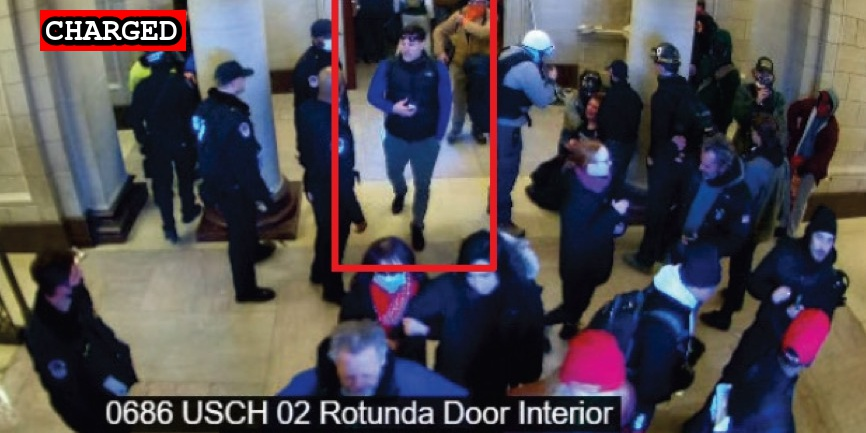
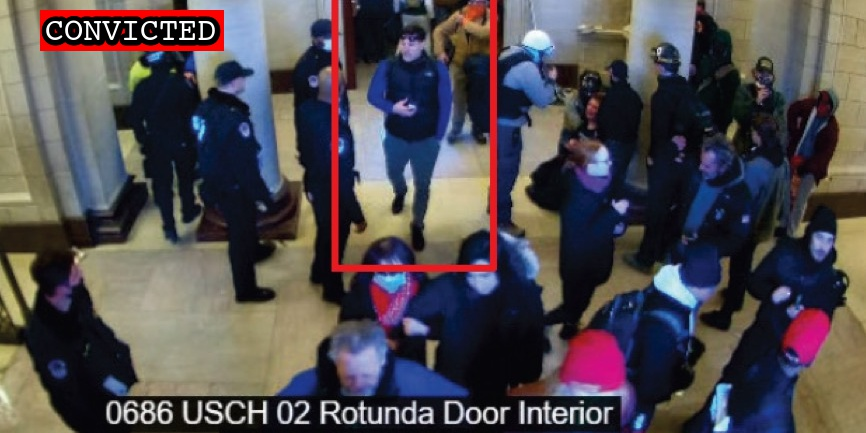
Latest pleas and sentencing

Changed region(s): [[0.0312, 0.0, 0.2806, 0.1201]]

diff --git a/docs/_suspects/jason-riddle.md b/docs/_suspects/jason-riddle.md
@@ -34,19 +34,19 @@ published: true
 caseNumber: 1:21-cr-304
 videos:
 charges:
-  - code: 18 USC § 5104(e)(2)(G)
-    title: Parading, demonstrating or picketing in a Capitol building
-    url: https://www.law.cornell.edu/uscode/text/40/5104
-    felony: false
-  - code: 18 USC § 641
-    title: Theft of Government Property
-    url: https://www.law.cornell.edu/uscode/text/18/641
-    felony: false
+- code: 18 USC § 5104(e)(2)(G)
+  title: Parading, demonstrating or picketing in a Capitol building
+  url: https://www.law.cornell.edu/uscode/text/40/5104
+  felony: false
+- code: 18 USC § 641
+  title: Theft of Government Property
+  url: https://www.law.cornell.edu/uscode/text/18/641
+  felony: false
 sentence:
 ---
-
 - [News Report](https://www.thedailybeast.com/wine-drinking-rioter-jason-riddle-sold-stolen-senate-doc-for-dollar40-feds)
-- [Statement of Facts](https://www.justice.gov/usao-dc/case-multi-defendant/file/1371501/download)
+- [Statement of Facts](https://www.justice.gov/usao-dc/case-multi-defendant/file/1450296/download)
 - [Self Incrimination (Interview)](http://postalnews.com/blog/2021/01/09/nh-letter-carrier-who-chugged-wine-amid-deadly-capitol-riot-says-he-has-no-regrets/)
 - [Self Incrimination (Video)](https://www.nbcboston.com/news/local/nh-man-who-chugged-glass-of-wine-amid-capitol-riot-says-he-has-no-regrets/2276413/)
 - [Information](https://www.justice.gov/usao-dc/case-multi-defendant/file/1393001/download)
+- [Plea Agreement](https://www.justice.gov/usao-dc/case-multi-defendant/file/1450291/download)

diff --git a/docs/_suspects/james-little.md b/docs/_suspects/james-little.md
@@ -4,15 +4,15 @@ lastName: Little
 hashtag: JamesLeslieLittle
 aka:
 residence: North Carolina
-status: Indicted
+status: Convicted
 date: 2021-03-25
 charged: 2021-03-25
 indicted: 2021-04-21
-convicted:
+convicted: 2021-11-16
 sentenced:
 dismissed:
 deceased:
-plea_hearing:
+plea_hearing: 2021-11-16
 sentencing:
 age: 64
 occupation:
@@ -34,11 +34,15 @@ published: true
 caseNumber: 1:21-cr-315
 videos:
 charges:
+- code: 18 USC § 5104(e)(2)(G)
+  title: Parading, demonstrating or picketing in a Capitol building
+  url: https://www.law.cornell.edu/uscode/text/40/5104
+  felony: false
 sentence:
 ---
-
 - [News Report](https://www.charlotteobserver.com/news/local/article250201455.html)
 - [Complaint](https://www.justice.gov/usao-dc/case-multi-defendant/file/1385921/download)
-- [Statement of Facts](https://www.justice.gov/usao-dc/case-multi-defendant/file/1385926/download)
+- [Statement of Facts](https://www.justice.gov/usao-dc/case-multi-defendant/file/1450206/download)
 - [Indictment](https://www.justice.gov/usao-dc/case-multi-defendant/file/1389886/download)
 - [Information](https://www.justice.gov/usao-dc/case-multi-defendant/file/1410506/download)
+- [Plea Agreement](https://www.justice.gov/usao-dc/case-multi-defendant/file/1450201/download)

diff --git a/docs/_suspects/james-lollis.md b/docs/_suspects/james-lollis.md
@@ -12,7 +12,7 @@ convicted:
 sentenced:
 dismissed:
 deceased:
-plea_hearing:
+plea_hearing: 2021-11-22
 sentencing:
 age:
 occupation:
@@ -25,7 +25,7 @@ courtroom:
 courthouse:
 raid:
 perpwalk:
-quote: 'Y’all on the same we are, aren’t you? You’re not going to respond? You’re not on the same team?'
+quote: "Y’all on the same we are, aren’t you? You’re not going to respond? You’re not on the same team?"
 title: James Lollis charged on September 3, 2021
 description: Click for latest case details. Suspects innocent until proven guilty.
 author: seditiontrack
@@ -36,5 +36,6 @@ videos:
 charges:
 sentence:
 ---
+
 - [News Report](https://www.foxcarolina.com/news/fbi-upstate-man-arrested-for-taking-part-in-riot-at-u-s-capitol-building/article_2eec20da-10eb-11ec-855b-f7b78801b6b8.html)
 - [Statement of Facts](https://extremism.gwu.edu/sites/g/files/zaxdzs2191/f/James%20Douglas%20Lollis%20Jr%20Criminal%20Complaint%20and%20Statement%20of%20Facts.pdf)

diff --git a/docs/_suspects/traci-sunstrum.md b/docs/_suspects/traci-sunstrum.md
@@ -34,12 +34,12 @@ published: true
 caseNumber:
 videos:
 charges:
-  - code: 18 USC § 5104(e)(2)(G)
-    title: Parading, demonstrating or picketing in a Capitol building
-    url: https://www.law.cornell.edu/uscode/text/40/5104
-    felony: false
+- code: 18 USC § 5104(e)(2)(G)
+  title: Parading, demonstrating or picketing in a Capitol building
+  url: https://www.law.cornell.edu/uscode/text/40/5104
+  felony: false
 sentence:
 ---
-
 - [News Report](https://news.wbfo.org/post/four-more-local-suspects-charged-us-capitol-riot)
-- [Statement of Facts](https://www.justice.gov/usao-dc/case-multi-defendant/file/1395326/download)
+- [Statement of Facts](https://www.justice.gov/usao-dc/case-multi-defendant/file/1450271/download)
+- [Plea Agreement](https://www.justice.gov/usao-dc/case-multi-defendant/file/1450276/download)

diff --git a/docs/_suspects/edward-mcalanis.md b/docs/_suspects/edward-mcalanis.md
@@ -4,15 +4,15 @@ lastName: McAlanis
 hashtag: EdwardMcAlanis
 aka:
 residence: Pennsylvania
-status: Charged
+status: Convicted
 date: 2021-07-14
 charged: 2021-07-14
 indicted:
-convicted:
+convicted: 2021-11-22
 sentenced:
 dismissed:
 deceased:
-plea_hearing:
+plea_hearing: 2021-11-22
 sentencing:
 age:
 occupation:
@@ -34,6 +34,10 @@ published: true
 caseNumber: 1:21-cr-516
 videos:
 charges:
+- code: 18 USC § 5104(e)(2)(G)
+  title: Parading, demonstrating or picketing in a Capitol building
+  url: https://www.law.cornell.edu/uscode/text/40/5104
+  felony: false
 sentence:
 ---
 - [News Report](https://dailyvoice.com/pennsylvania/lancaster/news/pa-man-running-for-judge-of-elections-charged-by-fbi-for-role-in-capitol-riot/814669/)
